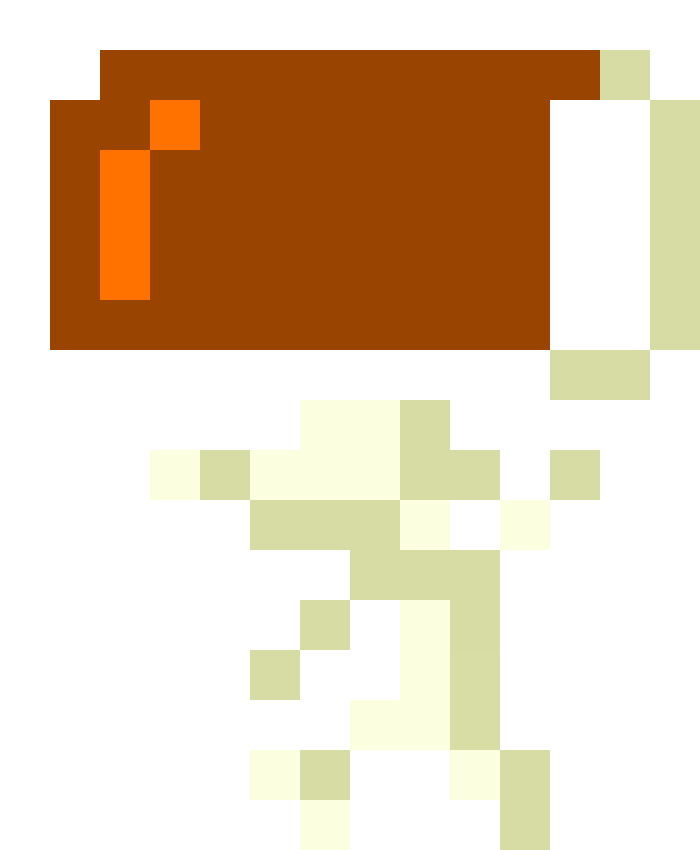
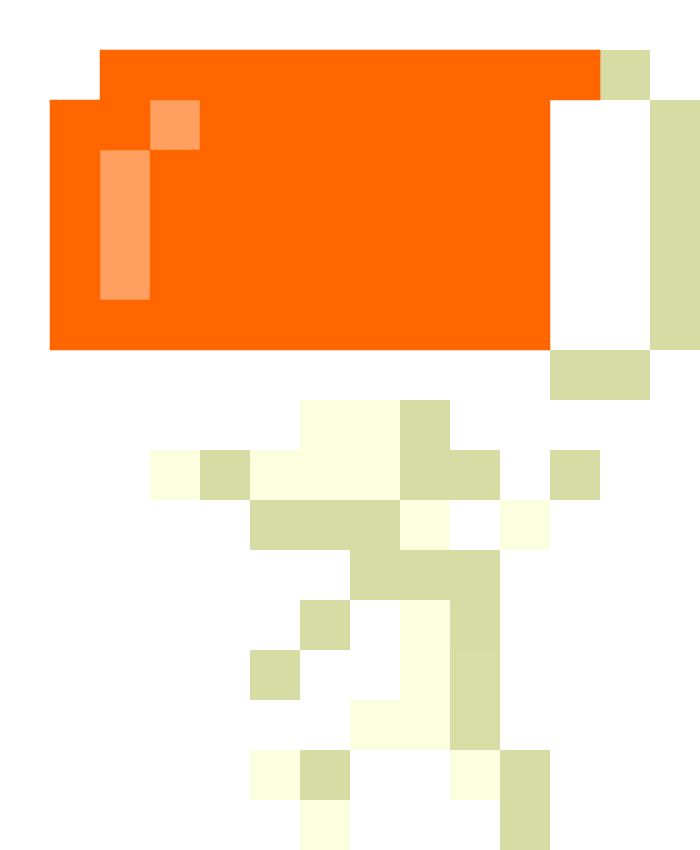
changed big dude, added a small dude

Changed region(s): [[0.06, 0.0306, 0.87, 0.4282]]

diff --git a/index.html b/index.html
@@ -2,9 +2,14 @@
 <html>   
     <script>
         function diffImage(img) {
-           "use strict";
-           if (img.src.match("./resources/social/" + img.id + "/yay_" + img.id + ".png")) img.src = "./resources/social/" + img.id + "/nice_" + img.id + ".png";
-           else img.src = "./resources/social/" + img.id + "/yay_" + img.id + ".png";
+            "use strict";
+            if(img.id.match("main")){
+                if (img.src.match("./resources/yay.png")) img.src = "./resources/nice.png";
+                else img.src = "./resources/yay.png";              
+            }else{
+                if (img.src.match("./resources/social/" + img.id + "/yay_" + img.id + ".png")) img.src = "./resources/social/" + img.id + "/nice_" + img.id + ".png";
+                else img.src = "./resources/social/" + img.id + "/yay_" + img.id + ".png";  
+            }
         }
     </script>
     
@@ -87,12 +92,17 @@
     
     <body background="./resources/backgroundtile.png">
         <div id="cf">
-            <a href = http://music.spacemanriff.me>
-                <img class="bottom" src="./resources/social/soundcloud/yay_soundcloud.png" id="soundcloud" alt=":^(" width="350" height="425" />
-                <img class="top" src="./resources/social/soundcloud/nice_soundcloud.png" id="soundcloud" alt=":^(" width="350" height="425" onclick=diffImage(this) />
+            <a href = http://nice.spacemanriff.me>
+                <img class="bottom" src="./resources/yay.png" id="main" alt=":^(" width="350" height="425" />
+                <img class="top" src="./resources/nice.png" id="main" alt=":^(" width="350" height="425" onclick=diffImage(this) />
             </a>
         </div>
         <div id = "links">
+            <div class = "move">
+                <a class="tooltips" href = http://music.spacemanriff.me>
+                    <img src="./resources/social/soundcloud/nice_soundcloud.png" id="soundcloud" alt="soundcloud" width="70" height="85" onclick=diffImage(this) /><span>Soundcloud</span>
+                </a>
+            </div>
             <div class = "move">
                 <a class="tooltips" href = http://twitter.spacemanriff.me>
                     <img src="./resources/social/twitter/nice_twitter.png" id="twitter" alt="twitter" width="70" height="85" onclick=diffImage(this) /><span>Twitter</span>
